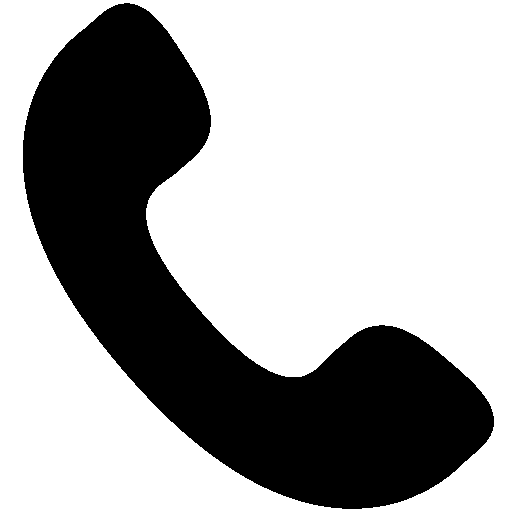
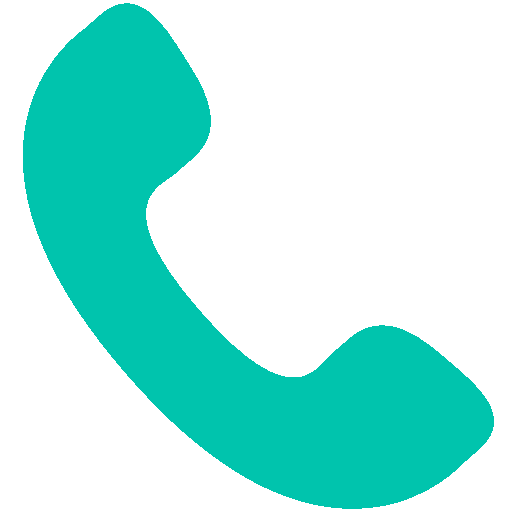
PictureChanges

diff --git a/src/GUI/View/MainLayout.css b/src/GUI/View/MainLayout.css
@@ -10,12 +10,13 @@
     -fx-orientation: vertical;
     -fx-content-display: top;
 
-    -fx-background-color: #00c4ad; 
+    -fx-background-color: #00e2c7; 
+    /*#00c4ad*/
 }
 .JFXButtonLogHours
 {
     -fx-graphic:url("../Images/save-white.png");
-    -fx-background-color: #00e2c7;
+    -fx-background-color: #00c4ad;
 }
 .JFXButtonSeeInfo
 {

diff --git a/src/GUI/Controller/HourLoginController.java b/src/GUI/Controller/HourLoginController.java
@@ -2,6 +2,7 @@ package GUI.Controller;
 
 import GUI.Model.AnimationModel;
 import com.jfoenix.controls.JFXButton;
+import com.jfoenix.controls.JFXCheckBox;
 import com.jfoenix.controls.JFXComboBox;
 import com.jfoenix.controls.JFXPasswordField;
 import com.jfoenix.controls.JFXTextField;
@@ -179,8 +180,8 @@ public class HourLoginController implements Initializable
       }
 
     /**
-     * Pops up a login view that plays a short fade in transition.
-     *
+     * Pops up a login view that plays a short fade in transition. Contains
+     * event for the buttons that are within.
      */
     public void loginPopup()
       {
@@ -189,7 +190,6 @@ public class HourLoginController implements Initializable
         //Styles that will be used
         popup.setSpacing(20);
         popup.setPadding(new Insets(20, 20, 20, 20));
-
         popup.getStyleClass().add("popup");
         popup.setStyle("-fx-background-color: #AAAAAA;");
 
@@ -233,7 +233,11 @@ public class HourLoginController implements Initializable
         txtPassword.setStyle(styleTextField);
 
         passwordArea.getChildren().addAll(lblPassword, txtPassword);
+        //A checkbox with the word Remember Me!
+        JFXCheckBox bxRemPassword = new JFXCheckBox("Remember Me");
+        bxRemPassword.setStyle(styleText);
         //Two buttons to confirm wether or not to log in and a label to say if it is wrong password
+
         HBox confirmArea = new HBox();
         confirmArea.alignmentProperty().set(Pos.CENTER_RIGHT);
         confirmArea.setSpacing(10);
@@ -246,7 +250,7 @@ public class HourLoginController implements Initializable
         btnCancel.setStyle(styleText + styleButtons);
         confirmArea.getChildren().addAll(lblWrongPw, btnLogin, btnCancel);
 
-        popup.getChildren().addAll(usernameArea, passwordArea, confirmArea);
+        popup.getChildren().addAll(usernameArea, passwordArea, bxRemPassword, confirmArea);
         root.getChildren().add(popup);
         popup.setTranslateY((root.getHeight() / 3));
         popup.setTranslateX(root.getWidth() / 4.2);
